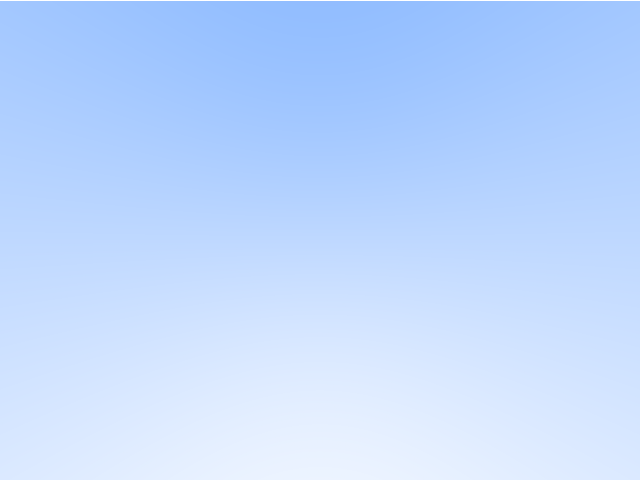
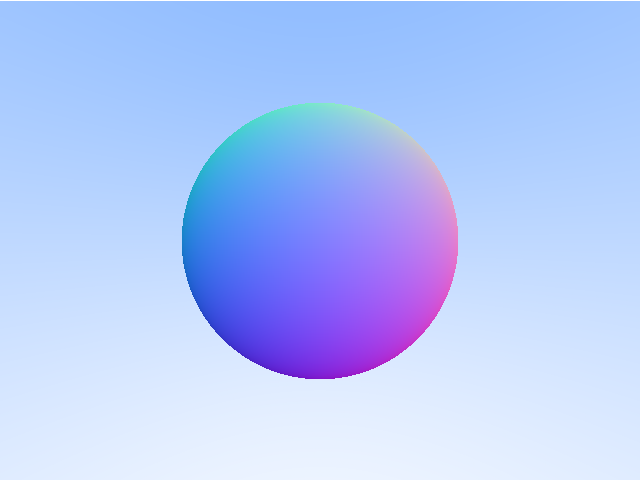
world space normals on sphere

Changed region(s): [[0.2812, 0.1875, 0.7188, 0.8125]]

diff --git a/rtCLI/main.go b/rtCLI/main.go
@@ -4,14 +4,37 @@ import (
 	"fmt"
 	"image"
 	"image/png"
+	"math"
 	"os"
 	"rt1go/core"
 )
 
 func testRayColor(r core.Ray) core.Col3 {
+	sphereCent := core.Vec3{0, 0, -1}
+	hitPoint := hitSphere(sphereCent, .5, &r)
+	if hitPoint > 0.0 {
+		normal := core.Normalize(r.At((hitPoint)).Subtract(sphereCent))
+		return core.Vec3{normal.X + 1, normal.Y + 1, normal.Z + 1}.Scale(255).Scale(.5)
+	}
 	dn := core.Normalize(r.Direction)
 	var t = (dn.Y + 1.0) * .5
 	return core.Vec3{255, 255, 255}.Scale((1.0 - t)).Add(core.NewVector3(.5*255, .7*255, 1.0*255).Scale((t)))
+}
+
+func hitSphere(center core.Pt3, radius float64, ray *core.Ray) float64 {
+	//TODO - solve this geometrically for funzies
+	oc := ray.Origin.Subtract(center)
+	a := core.Dot(ray.Direction, ray.Direction)
+	b := 2.0 * core.Dot(oc, ray.Direction)
+	c := core.Dot(oc, oc) - radius*radius
+	discriminant := b*b - 4*a*c
+	//negative is behind us
+	if discriminant < 0 {
+		return -1.0
+	} else {
+		//only return one solution
+		return (-b - math.Sqrt(discriminant)) / (2.0 * a)
+	}
 }
 
 func main() {
@@ -21,7 +44,7 @@ func main() {
 	const imageWidth int = 640
 	const imageHeight int = 480
 	img := image.NewRGBA(image.Rect(0, 0, imageWidth, imageHeight))
-	cam := core.NewCamera(2, 3.5, 1, core.NewVector3(0, 0, 0))
+	cam := core.NewCamera(2, 2.66666666667, 1, core.NewVector3(0, 0, 0))
 	lowerLeftCorner := cam.Origin.Subtract((cam.Horizontal.Scale(.5))).Subtract(cam.Vertical.Scale(.5)).Subtract(core.NewVector3(0, 0, float64(cam.FocalLength)))
 	fmt.Printf("lower left corner is:", lowerLeftCorner)
 
